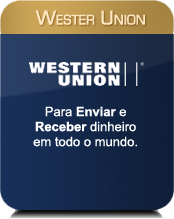
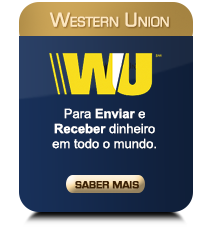
focco v11-11-2013

diff --git a/css/styles.css b/css/styles.css
@@ -145,7 +145,7 @@ footer ul {
 	top: 6px;
 }
 .footer-quadro2{
-	top: 6px;
+	top: 24px;
 }
 .footer-quadro3{
 	top: 6px;

diff --git a/includes/header.php b/includes/header.php
@@ -1,0 +1,49 @@
+<!DOCTYPE html>
+<html lang="pt-BR">
+	<head>
+		<meta charset="utf-8" />
+		<title>Focco Câmbio - Câmbio Financeiro</title>
+		<meta name="description" content="Câmbio financeiro, Casa de Câmbio, Entrega de moedas em São Paulo, Dólar, Euro, Libra" />
+		<meta name="author" content="Pamella Gaiguer, Leonardo Zaccur" />
+		<meta name="keywords" content="casa, câmbio, financeiro, western, union, yes, cash, passport, visa,
+		mastercard, dólar, euro, libra, cotação, casa de câmbio, casa de cambio, focco, atendimento, corporativo, delivery,
+		moeda, casa, espécie, especie, real">
+		<link rel="shortcut icon" href="/favicon.ico" />
+		<link rel="apple-touch-icon" href="/apple-touch-icon.png" />
+		<link rel="stylesheet" href="css/reset.css">
+		<link rel="stylesheet" href="css/styles.css">
+		<link rel="stylesheet" href="css/menu.css">
+		<link rel="stylesheet" href="css/slidesjs.css"> 
+	</head>
+	<body>
+		<div class="body-background-blueline"></div>
+		<div class="body-background-goldline"></div>
+		<div class="main-page">
+			<header>
+				<h1 id="logo-foco">Focco Cambio</h1>
+				<img src="images/linha-cidade.png" alt="linha-cidade">
+				<div class="menu">
+					<ul class="pureCssMenu pureCssMenum" style="width: 541px; height: 37px;">
+						<li class="pureCssMenui"><a class="pureCssMenui" href="index.php" style="margin-top: 5px; margin-left: 20px; margin-right: 20px;">Home<![if gt IE 6]></a><![endif]><!--[if lte IE 6]><table><tr><td><![endif]-->
+						<!--[if lte IE 6]></td></tr></table></a><![endif]--></li>
+						<li class="pureCssMenui"><a class="pureCssMenui" href="#"><span style="margin-top: 5px; margin-left: 20px; margin-right: 20px;">Produtos</span><![if gt IE 6]></a><![endif]><!--[if lte IE 6]><table><tr><td><![endif]-->
+						<ul class="pureCssMenum">
+							<li class="pureCssMenui"><a class="pureCssMenui" href="prod_cartoesprepagos.php">Cartões Pré-Pagos</a></li>
+							<li class="pureCssMenui"><a class="pureCssMenui" href="prod_moedaestrangeira.php">Moeda Estrangeira</a></li>
+							<li class="pureCssMenui"><a class="pureCssMenui" href="prod_transfinternacionais.php">Transferências Internacionais</a></li>
+						</ul>
+						<!--[if lte IE 6]></td></tr></table></a><![endif]--></li>
+						<li class="pureCssMenui"><a class="pureCssMenui" href="#"><span style="margin-top: 5px; margin-left: 20px; margin-right: 20px;">Serviços</span></a>
+						<ul class="pureCssMenum">
+							<li class="pureCssMenui"><a class="pureCssMenui" href="serv_atendCorporativo.php">Atendimento Corporativo</a></li>
+							<li class="pureCssMenui"><a class="pureCssMenui" href="serv_delivery.php">Delivery</a></li>
+							<li class="pureCssMenui"><a class="pureCssMenui" href="serv_duvidasfrequentes.php">Dúvidas Frequentes</a></li>
+						</ul></li>
+						<li class="pureCssMenui"><a class="pureCssMenui" href="#"><span style="margin-top: 5px; margin-left: 20px; margin-right: 20px;">Contato</span></a>
+						<ul class="pureCssMenum" style="width: 150px;">
+							<li class="pureCssMenui"><a class="pureCssMenui" href="faleconosco.php">Fale Conosco</a></li>
+							<li class="pureCssMenui"><a class="pureCssMenui" href="lojas.php">Lojas</a></li>
+						</ul></li>						
+					</ul>
+				</div>
+			</header>

diff --git a/index.php b/index.php
@@ -53,16 +53,20 @@ while ($row = mysql_fetch_assoc($result)) {
 					<a href="serv_delivery.php"><img src="images/slider-banner003.png"></a>
 					<img src="images/slider-banner004.png">
 					<a href="http://www.rendimento.com.br//?c=3493" target="_blank"><img src="images/slider-banner005.jpg"></a>
+					<a href="prod_westernunion.php"><img src="images/slider-banner006.jpg"></a>
 				</div>
 			</div>
 			<br><br>
 			<div class="banner-cartoes">
 				<figure id="cartao001">
-					<a href="prod_cartoesprepagos.php" target="_self"><img src="images/home-cartoes001-img.png" alt="cartao001"></a>
+					<a href="prod_cartoesprepagos.php" target="_self"><img src="images/home-cartoes001-img.png" alt="cartao001" style="width: 400px;"></a>
 				</figure>
 				<figure id="cartao002">
-					<a href="prod_moedaestrangeira.php" target="_self"><img src="images/home-cartoes002-img.png" alt="cartao002"></a>
+					<a href="prod_moedaestrangeira.php" target="_self"><img src="images/home-cartoes002-img.png" alt="cartao002" style="height: 237px;"></a>
 				</figure>
+				<figure id="cartao003">
+					<a href="prod_westernunion.php" target="_self"><img src="images/home-cartoes003-img.png" alt="cartao003" style="height: 205px"></a>
+				</figure>				
 			</div>
 			<br>
 		</div>	

diff --git a/faleconosco.php b/faleconosco.php
@@ -1,5 +1,4 @@
 <?php
-<<<<<<< HEAD
     // $to = 'contato@foccocambio.com.br';
     // $subject= "Contato Focco - Enviado pelo Site";
     // $nome = $_POST['nome'];
@@ -16,24 +15,6 @@
 	    // $headers .= "Return-Path: " . $to . $quebra_linha; // Se "não for Postfix"
 	    // mail($to, $subject, $message, $headers );
 	// }			
-=======
-    $to = 'contato@foccocambio.com.br';
-    $subject= "Contato Focco - Enviado pelo Site";
-    $nome = $_POST['nome'];
-    $email = $_POST['email'];
-    $tel = $_POST['telefone'];
-	
-    $message = "Email enviado pelo Fale Conosco do Site \n
-		Nome: ".$nome." \n 
-		E-mail: ".$email." \n
-		Telefone: ".$tel." \n
-		Mensagem: ".$msg."  \n";
-		
-	if(!mail($to, $subject, $message, $headers ,"-r".$to)){ // Se for Postfix
-	    $headers .= "Return-Path: " . $to . $quebra_linha; // Se "não for Postfix"
-	    mail($to, $subject, $message, $headers );
-	}			
->>>>>>> 59a67f1d2ae2a412b9b0f1a8c7ad35327c93f37a
 ?>
 <!DOCTYPE html>
 <html lang="pt-BR">

diff --git a/includes/footer.php b/includes/footer.php
@@ -11,6 +11,7 @@
 					<li><a href="prod_cartoesprepagos.php" target="_self">Cartões Pré-Pagos</a></li>
 					<li><a href="prod_moedaestrangeira.php" target="_self">Moedas Estrangeiras</a></li>
 					<li><a href="prod_transfinternacionais.php" target="_self">Transferências Internacionais</a></li>
+					<li><a href="prod_westernunion.php" target="_self">Western Union</a></li>
 				</ul>
 				<ul class="footer-quadro3">
 					<li class="footer-uppercase">Dúvidas e Sugestões</li>

diff --git a/includes/header_menu.php b/includes/header_menu.php
@@ -19,12 +19,9 @@
 								<li class="pureCssMenui">
 									<a class="pureCssMenui" href="prod_transfinternacionais.php">Transferências Internacionais</a>
 								</li>
-<<<<<<< HEAD
 								<li class="pureCssMenui">
 									<a class="pureCssMenui" href="prod_westernunion.php">Western Union</a>
 								</li>								
-=======
->>>>>>> 59a67f1d2ae2a412b9b0f1a8c7ad35327c93f37a
 							</ul>
 							<!--[if lte IE 6]></td></tr></table></a><![endif]-->
 						</li>
